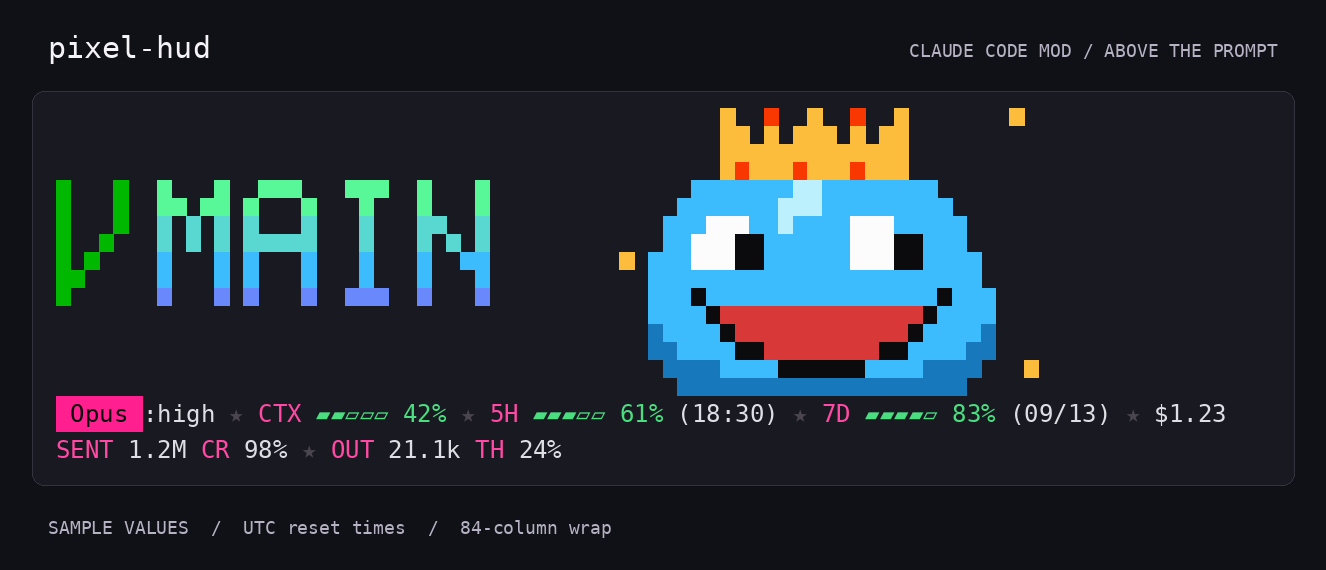
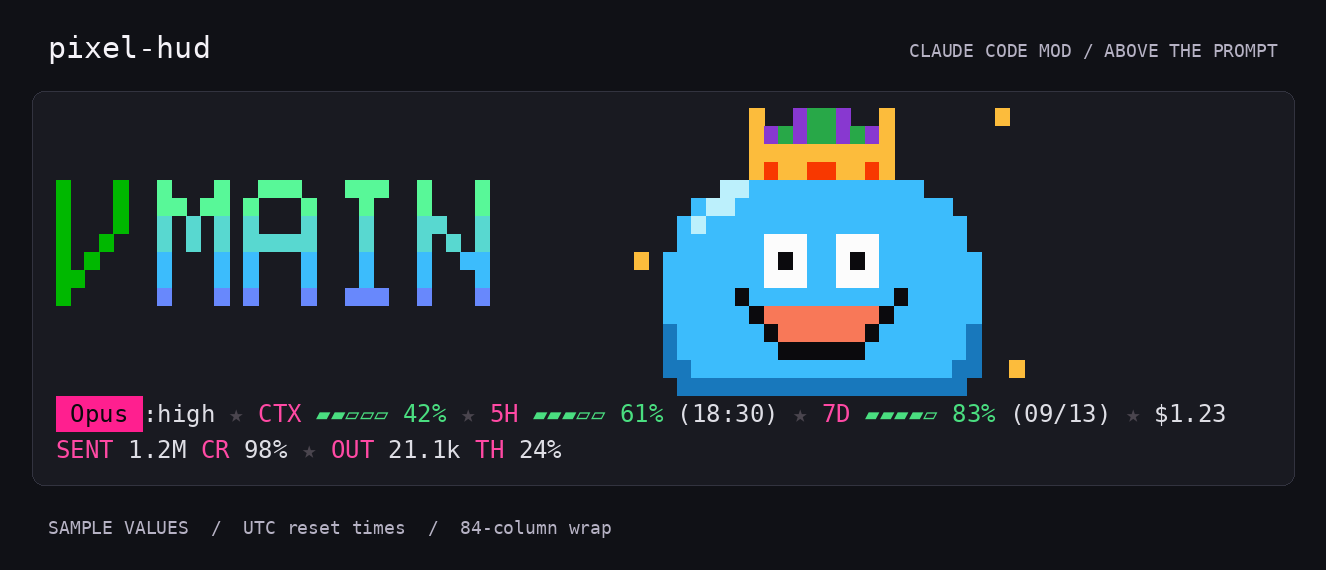
docs(pixel-hud): refresh the showcase with the new faces and Kings
Regenerate pixel-hud.png, the King PNG and GIF, and the quest GIF so they
show the centred pupils and salmon grin. render_mod.py now hands the mod a
fixed King pick, the King Slime by default or the one --variant names, so
the King images no longer depend on Math.random.

Changed region(s): [[0.4638, 0.1789, 0.8039, 0.686], [0.7421, 0.1789, 0.773, 0.2386]]

diff --git a/docs/showcase/render_mod.py b/docs/showcase/render_mod.py
@@ -22,6 +22,8 @@ parser.add_argument("--font", default="/usr/share/fonts/truetype/dejavu/DejaVuSa
 parser.add_argument("--stage", choices=["slimes", "quest"], default="slimes",
                     help="choose the stage theme")
 parser.add_argument("--output", type=Path, help="write the image to this path")
+parser.add_argument("--variant", choices=["king", "gold", "metal"], default="king",
+                    help="which King the slimes crown")
 mode = parser.add_mutually_exclusive_group()
 mode.add_argument("--king", action="store_true",
                     help="draw the King Slime show after a long task (pixel-hud-king.png)")
@@ -215,6 +217,15 @@ export const register: Register = (on, options) => {
 }
 """)
         (copy / "hooks" / "hooks.json").write_text(json.dumps({"modules": ["./battle-showcase.ts"]}))
+    else:
+        # A fixed pick in the middle of the variant's third of [0, 1).
+        pick = (["king", "gold", "metal"].index(args.variant) + 0.5) / 3
+        (copy / "hooks" / "king-showcase.ts").write_text(f"""
+import {{ register as registerHud }} from './register'
+import type {{ Register }} from 'claude-code'
+export const register: Register = (on, options) => registerHud(on, options, () => {pick})
+""")
+        (copy / "hooks" / "hooks.json").write_text(json.dumps({"modules": ["./king-showcase.ts"]}))
     frame_count = "0"
     if args.gif or args.sheet:
         frame_count = (

diff --git a/docs/showcase/README.md b/docs/showcase/README.md
@@ -51,6 +51,9 @@ or newer) besides Pillow and the font:
 The second draws `pixel-hud-king.png`: a task of a minute ends, and the image
 catches the King Slime halfway through its reign, using the exported phase
 lengths.
+The mod picks the King at random; the renderer hands it a fixed pick, the King
+Slime unless `--variant gold` or `--variant metal` asks for the Gold King or
+the Metal King Slime. The committed images use the King Slime.
 The third draws `pixel-hud-king.gif`, the README's demo: the same task, one
 frame for each tick of the slimes' exported `FRAME_MS` clock, from the slimes
 at rest through the whole show and home again. Pillow folds repeated frames
